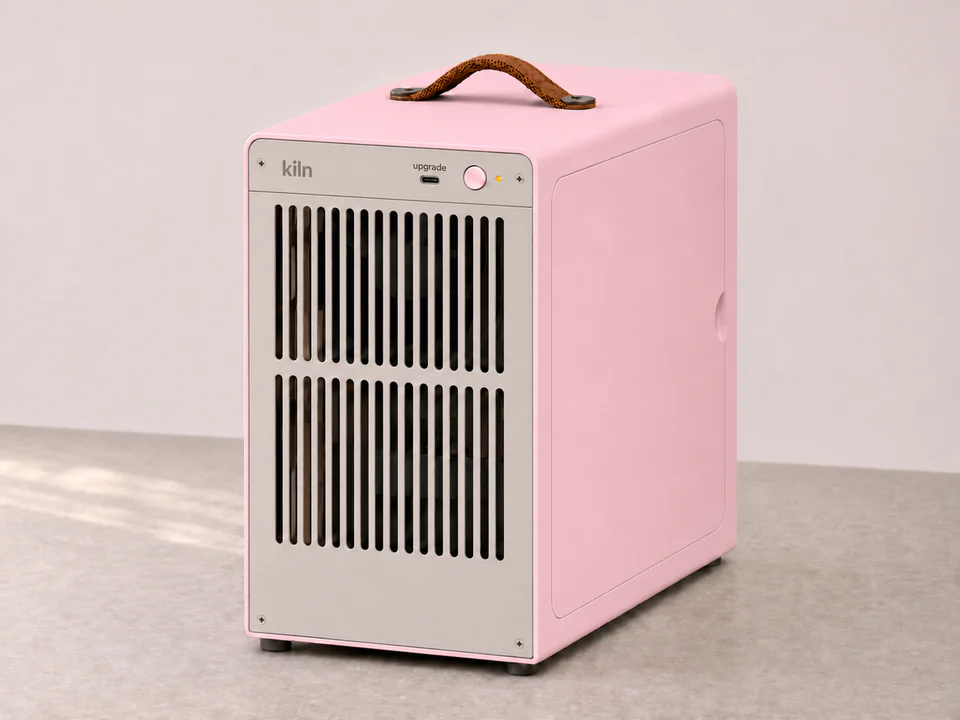
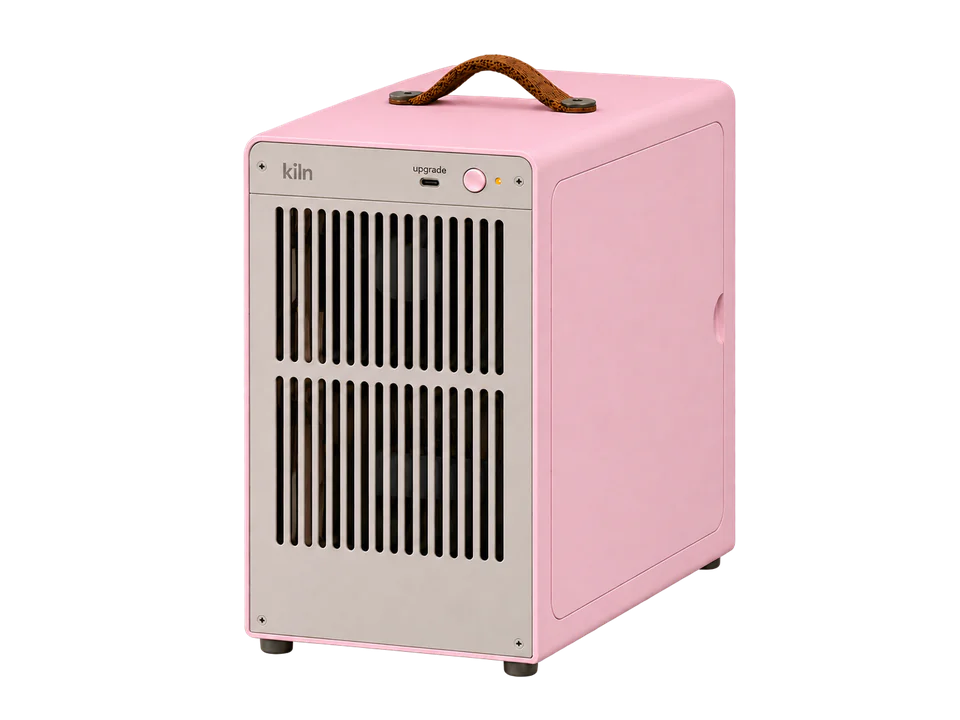
fix: restore the Kiln One pullback on white

diff --git a/src/styles/hardware-reveal.css b/src/styles/hardware-reveal.css
@@ -1,3 +1,12 @@
+/* Keep the cutouts on one continuous white field through the original arrival. */
+.intro-runway, #hardware, .finish-editorial, .finish-interlude {
+  --paper: #fff;
+  --field: #fff;
+  background: #fff;
+}
+body:has(.intro-runway) .site-header { background: #fff; }
+.intro-runway .hero-device picture { display: block; }
+#hardware .finish-runway { margin-inline: calc(-1 * var(--pad)); }
 /* The camera is driven by document scroll. The controls work at every viewport size. */
 .finish-runway {
   --finish-top: 86px;
@@ -30,19 +39,8 @@
   line-height: .99;
   font-weight: 700;
 }
-.finish-title span {
-  display: block;
-  width: fit-content;
-  border: .055em solid currentColor;
-  padding: 0 .08em .045em;
-  line-height: .89;
-  margin: .09em 0 .06em;
-}
 .finish-intro { grid-area: intro; padding-top: clamp(16px, 3vh, 38px); }
-.finish-intro p { font-size: clamp(16px, 1.45vw, 24px); line-height: 1.35; }
-.finish-intro .hero-membership { margin: 6px 0 18px; }
-.finish-intro .hero-inception { font-size: 12px; max-width: 31ch; margin-top: 4px; }
-.finish-intro .hero-inception img { width: 74px; }
+.finish-intro p { font-size: clamp(24px, 2.3vw, 40px); line-height: 1.15; }
 .finish-skip {
   grid-area: skip;
   display: none;
@@ -63,7 +61,7 @@
   justify-self: end;
   width: min(100%, calc((var(--finish-height) - 140px) * 1.3333));
 }
-.finish-window { aspect-ratio: 4 / 3; overflow: hidden; background: #d9d0ca; }
+.finish-window { aspect-ratio: 4 / 3; overflow: hidden; background: #fff; }
 .finish-camera { width: 100%; height: 100%; transform-origin: 45% 23%; }
 .finish-slide, .finish-slide img { width: 100%; height: 100%; display: block; }
 .finish-slide[hidden], .finish-zoom[hidden] { display: none; }
@@ -95,10 +93,11 @@
   outline: 2px solid var(--ink); outline-offset: 1px;
 }
 .one-overview.product-slide { padding-inline: 0; }
-.one-overview .product-figure { overflow: hidden; }
-.one-overview .product-figure img { height: 100%; object-fit: contain; }
-.finish-interlude > img { object-position: 50% 32%; }
-.finish-editorial > img { width: 100%; height: min(70vw,85svh); object-fit: cover; object-position: 50% 32%; }
+.finish-interlude { color: var(--ink); }
+.finish-interlude::after { content: none; }
+.finish-interlude > img { inset: 0 0 0 auto; width: 75%; height: 100%; object-fit: contain; }
+.finish-interlude figcaption { max-width: 32%; }
+.finish-editorial > img { width: 100%; height: min(70vw,85svh); object-fit: contain; }
 
 @media (max-width: 760px) {
   .finish-runway { --finish-top: 70px; --finish-height: calc(100svh - 132px); }
@@ -110,17 +109,14 @@
     padding: 18px 24px;
   }
   .finish-title { font-size: clamp(38px, 8.7vw, 64px); line-height: 1.08; }
-  .finish-title span { display: inline-block; margin: 0; padding: 0 .07em .025em; }
+  .finish-interlude > img { width: 100%; height: 75%; }
+  .finish-interlude figcaption { max-width: none; }
   .finish-viewer { width: min(100%, max(260px, calc((var(--finish-height) - 260px) * 1.3333))); justify-self: center; }
   .finish-controls { gap: 4px; min-height: 52px; }
   .finish-swatch { width: 32px; }
   .finish-swatch span { width: 18px; height: 18px; }
   .finish-intro { padding-top: 0; }
-  .finish-intro p { font-size: 16px; }
-  .finish-intro .hero-membership { margin: 6px 0; }
-  .finish-intro .hero-inception { max-width: none; font-size: 11px; }
-  .finish-intro .hero-inception img { width: 64px; }
-  .finish-intro .text-link { min-height: 38px; }
+  .finish-intro p { font-size: 20px; }
   .finish-skip { min-height: 28px; }
 }
 /* At short heights the image gets its own sticky track so text never clips. */
@@ -129,7 +125,6 @@
 .finish-compact .finish-title {
   font-size: clamp(37px, 6vw, 70px); line-height: 1.08; margin-bottom: 16px;
 }
-.finish-compact .finish-title span { display: inline-block; margin: 0; }
 .finish-compact .finish-viewer-wrap {
   display: block; height: calc(var(--finish-height) + 260svh);
 }
@@ -140,6 +135,15 @@
 .finish-compact .finish-intro { margin-top: 16px; }
 .finish-compact .finish-skip { display: inline-flex; margin-bottom: 8px; }
 
+@media (max-width: 760px) and (max-height: 700px) {
+  .intro-active .hero-box { height: calc(var(--intro-stage) * .29); }
+  .intro-active .hero-keep { margin-bottom: 8px; }
+  .intro-active .hero-bottom { margin-top: 12px; gap: 8px; }
+  .intro-active .hero-device {
+    top: calc(var(--intro-stage) * .18);
+    width: min(60vw, calc(var(--intro-stage) * .45));
+  }
+}
 @media print {
   .finish-scroll { height: auto; }
   .finish-scroll .finish-stage { position: static; min-height: 0; }

diff --git a/src/components/Seo.jsx b/src/components/Seo.jsx
@@ -13,7 +13,10 @@ export default function Seo({ title, description, path, hero = false }) {
     <link rel="canonical" href={url} />
     <link rel="icon" href="/assets/kiln/kiln-crucible-ink.svg" type="image/svg+xml" />
     <link rel="preload" href="/assets/fonts/ABCMonumentGrotesk-Bold.woff2" as="font" type="font/woff2" crossOrigin="anonymous" />
-    {hero && <link rel="preload" href="/assets/kiln/finishes/pebble-grey-960.webp" as="image" />}
+    {hero && <>
+      <link rel="preload" as="image" href="/assets/kiln/finishes/pebble-grey-3840.webp" media="(prefers-reduced-motion: no-preference)" />
+      <link rel="preload" as="image" href="/assets/kiln/finishes/pebble-grey-960.webp" media="(prefers-reduced-motion: reduce)" />
+    </>}
     <meta property="og:type" content="website" />
     <meta property="og:url" content={url} />
     <meta property="og:title" content={title} />

diff --git a/src/styles/product-pages.css b/src/styles/product-pages.css
@@ -25,8 +25,9 @@
 
 @media(max-width:760px){.tone-blue .product-page-stage h1{max-width:calc(100% - 32px);word-spacing:.03em}.reservation-heading h2{line-height:1.08}}
 
+.hardware-catalogue,
 .one-finish-hero {
-  --field: var(--paper);
+  --field: #fff;
   background: var(--field);
 }
 .one-finish-hero .product-page-stage img {

diff --git a/docs/CONTENT-SOURCES.md b/docs/CONTENT-SOURCES.md
@@ -1,8 +1,8 @@
 ## Kiln One finishes and scroll zoom, 26 November 2026
 
-The founder selected the pebble-grey Kiln One and three colours for the lander: baby pink, eucalyptus and powder blue. Each folded-steel concept has a matching power button, woven grip, right-side access panel and a standard USB-C port with the lowercase label “upgrade” directly above it. The four source renders are visual concepts. The 3840 × 2880 WebPs are upscaled from 1448 × 1086 artwork. The initial views use 960 × 720 versions.
+The founder selected the pebble-grey Kiln One and three colours for the lander: baby pink, eucalyptus and powder blue. Each folded-steel concept has a matching power button, woven grip, right-side access panel and a standard USB-C port with the lowercase label “upgrade” directly above it. The four original studio renders are visual concepts. The website isolates each device on white, removing the photographed worktop and backdrop. The 3840 × 2880 WebPs are upscaled from the 1448 × 1086 source artwork. The opening uses the larger image when motion is enabled. The 960 × 720 versions serve the smaller views.
 
-The homepage uses the four finishes for its scroll-linked 4× close-ups. The Kiln One configurations, prices, KilnOS narrative and enquiry destinations carry forward from the existing site. Atelier and Atelier Rack are retired from the active catalogue. Their former product URLs direct visitors to the hardware page.
+The opening scroll pulls back from the device close-up to reveal “Keep the work close.” An outline draws clockwise around “work”, as on the original lander. The hardware gallery gives direct access to all four finishes and pulls back from a 4× detail to each full device. The later interlude retains “A place for your ideas.” The Kiln One configurations, prices, KilnOS narrative and enquiry destinations carry forward from the existing site. Atelier and Atelier Rack are retired from the active catalogue. Their former product URLs direct visitors to the hardware page.
 
 ## NVIDIA Inception membership, 23 November 2026
 
